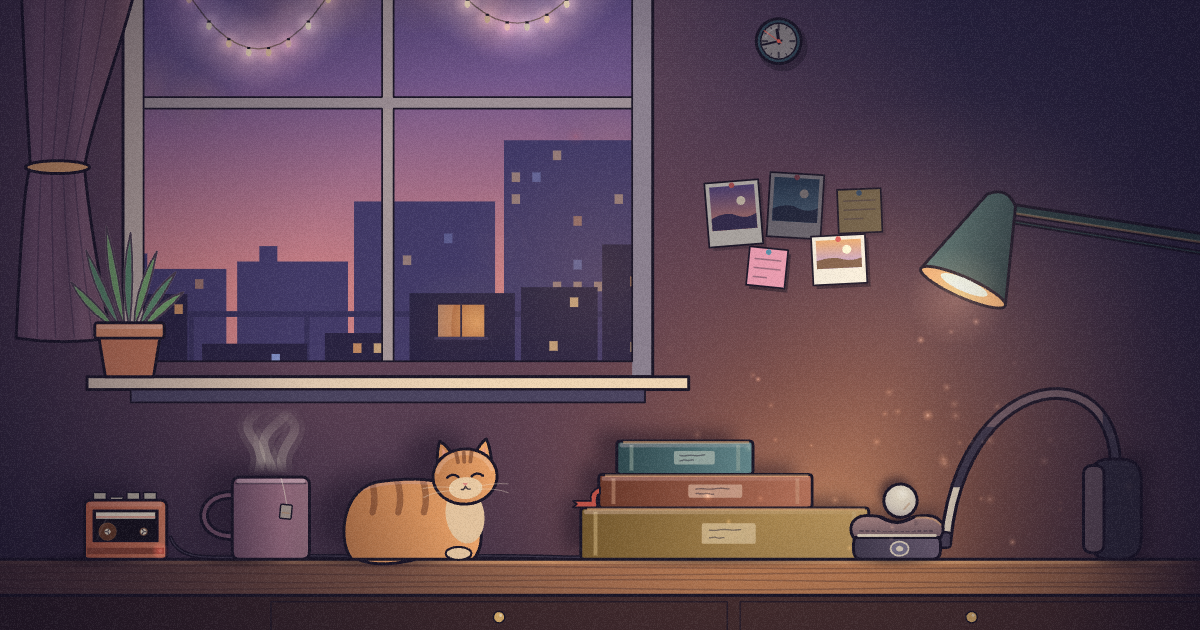
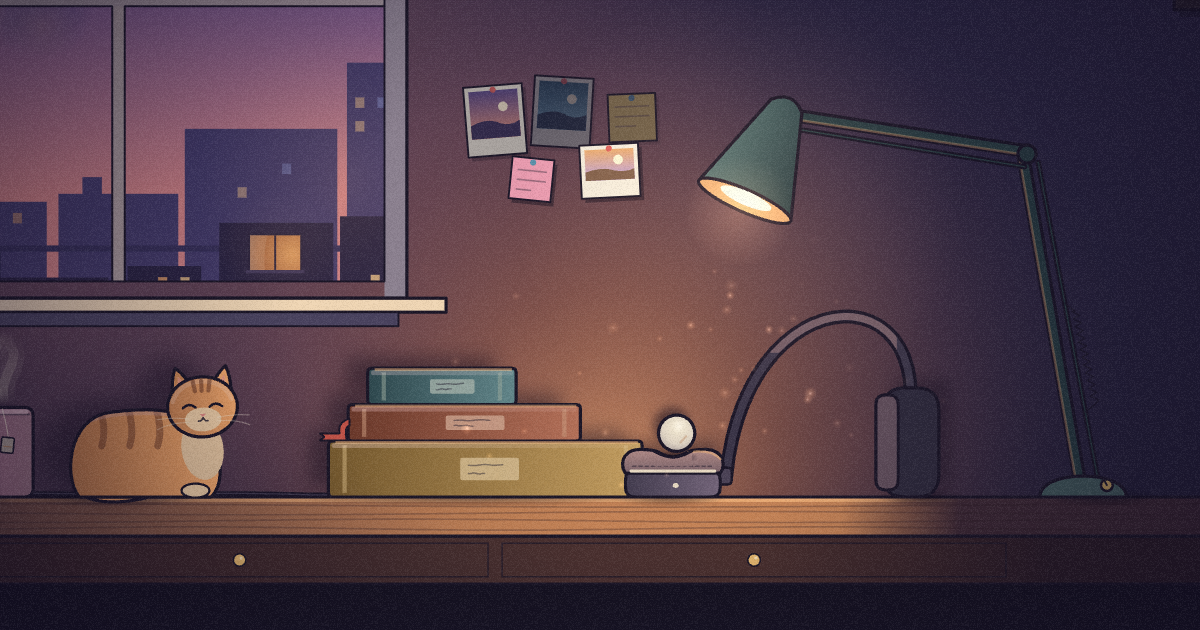
Soft Lamp: stillness, and a fourth cold review's repeats
A fourth no-context review, after the camera rebalance. Taken, as each was
flagged by earlier reviewers too: each groove look now holds sixteen bars
(nineteen fewer camera moves); the moth's wall shadow is removed; the
headphone badge is a small dot and the band's slider strip is gone; the face
in the mist loses its drips; the moon stays behind the cloud while it rains;
the steam sways narrower so it no longer crosses into letter shapes; fewer
dust motes. Schedules re-land: the kitten stops nodding to wash or stretch,
the person's stretch follows the kitten's within thirty seconds, and the hand
keeps clear of the neighbour's moments.

diff --git a/apps/rube/src/shows/versions/soft-lamp/lamp/cat.ts b/apps/rube/src/shows/versions/soft-lamp/lamp/cat.ts
@@ -174,7 +174,7 @@ function ballGaze(t: number, lag: number): { x: number; y: number } {
 function vibing(tr: Track, phrase: number): number {
   // It plays to the camera: likelier to be lost in it through a phrase the camera spends looking at it.
   const mid = barTime(tr, tr.entry + phrase * 8 + 4)
-  return hash(tr.n, phrase, 97) < (catInViewAt(mid) ? 0.8 : 0.25) ? 1 : 0
+  return hash(tr.n, phrase, 97) < (catInViewAt(mid) ? 0.62 : 0.25) ? 1 : 0
 }
 export function vibeAt(t: number): number {
   const tr = trackAt(t)
@@ -220,10 +220,10 @@ export function yawnAt(t: number): number {
 /** How long a wash takes: the paw up to its chin, four licks, the paw over its ear, and down. */
 const WASH = 6
 /**
- * Its washes: four through the night, each in a phrase it spends watching rather than nodding along, while the ball
+ * Its washes: four through the night (if it was nodding along, it stops to wash), while the ball
  * sits and the camera is on it all the while, clear of its yawns and of the lob.
  */
-export const WASHES: number[] = [[1, 2], [3, 4], [5, 6], [7, 8]].map((tracks) => {
+export const WASHES: number[] = [[1, 2], [3, 4, 2, 6], [5, 6], [7, 8]].map((tracks) => {
   for (const n of tracks) {
     const at = washIn(n)
     if (at > 0) return at
@@ -241,8 +241,9 @@ function washIn(n: number): number {
     if (!catInViewAt(at) || !catInViewAt(at + WASH)) continue
     if (YAWNS.some((y) => Math.abs(y - at) < WASH + 6)) continue
     if (REACHES.some((r) => at > r.at - WASH - 4 && at < r.at + r.dur + 4)) continue
+    // (If it was nodding along, it stops to wash: `cat` takes the wash over the nod.)
     let still = true
-    for (let s = at - 1; s <= at + WASH + 1; s += 0.5) if (vibeAt(s) > 0.02 || sweepAt(s).a > 0.02) still = false
+    for (let s = at - 1; s <= at + WASH + 1; s += 0.5) if (sweepAt(s).a > 0.02) still = false
     if (still) return at
   }
   return -100
@@ -271,13 +272,13 @@ export function washAt(t: number): { k: number; paw: number; lick: number } {
 /** How long a stretch takes: up onto its feet, the front stretched out long with a yawn, and back down. */
 const STRETCH = 6.8
 /** Everything a stretch reaches to: the cat's box, and its front paws out along the desk toward the books. */
-const STRETCH_BOX: [number, number, number, number] = [CAT.x0 - 0.3, -1.25, CAT.chest + 0.6, 0.05]
+const STRETCH_BOX: [number, number, number, number] = [CAT.x0 - 0.08, -1.25, CAT.chest + 0.6, 0.05]
 /**
  * Its stretches: twice through the night, as a cat does now and then after lying still a long while, each in a phrase
  * it spends watching (never nodding along), while the camera holds the whole of it, the paws stretched out included;
  * clear of its yawns and washes, the hand, the lob, a car's lights and the sky's moments.
  */
-export const STRETCHES: number[] = [[3, 4, 5, 2, 6], [8, 9, 10]].map((tracks) => {
+export const STRETCHES: number[] = [[3, 4, 5, 2, 6, 1], [9, 10, 8]].map((tracks) => {
   for (const n of tracks) {
     const at = stretchIn(n)
     if (at > 0) return at
@@ -308,8 +309,9 @@ function stretchIn(n: number): number {
     if (sky.some((m) => m > at - 12 && m < at + STRETCH + 10)) continue
     if (machineBusy(at, at + STRETCH)) continue
     if (!held(at - 1, at + STRETCH + 1)) continue
+    // (Nodding along, it stops to stretch: `cat` takes the stretch over the nod.)
     let still = true
-    for (let s = at - 1; s <= at + STRETCH + 1; s += 0.5) if (vibeAt(s) > 0.02 || sweepAt(s).a > 0.02) still = false
+    for (let s = at - 1; s <= at + STRETCH + 1; s += 0.5) if (sweepAt(s).a > 0.02) still = false
     if (still) return at
   }
   return -100
@@ -404,7 +406,7 @@ function catAt(ctx: Ctx, lw: number, t: number, c: ReturnType<typeof climbAt>): 
   // A shooting star, or lightning, brings it out of the music to look, and it goes back in after.
   // A scratch under the chin: it shuts its eyes and leans into the hand.
   const pet = petAt(t) * (1 - sleepAt(t))
-  const vibe = vibeAt(t) * (1 - shootAt(t - 0.3).a) * (1 - flashAt(t).look) * (1 - handAt(t).a) * (1 - mothKeen(t))
+  const vibe = vibeAt(t) * (1 - washAt(t).k) * (1 - smooth(stretchAt(t).up, 0, 0.3)) * (1 - shootAt(t - 0.3).a) * (1 - flashAt(t).look) * (1 - handAt(t).a) * (1 - mothKeen(t))
   // Stretching: up on its feet, the body lifted and tipped forward (chest down, rear up) about its rear, and longer;
   // the head down and forward with it, the eyes shut in a yawn.
   const s0 = stretchAt(t)
@@ -430,9 +432,9 @@ function catAt(ctx: Ctx, lw: number, t: number, c: ReturnType<typeof climbAt>): 
   const mix = (a: { x: number; y: number }, b: { x: number; y: number }) => ({ x: a.x + (b.x - a.x) * st.up, y: a.y + (b.y - a.y) * st.up })
   const curl = Math.sin(t * 2.4) * 0.04
   const t0 = mix({ x: x0 + 0.08, y: -0.08 }, T(x0 + 0.02, -0.22))
-  const t1 = mix({ x: x0 + 0.2, y: 0.02 }, T(x0 - 0.22, -0.4))
-  const t2 = mix({ x: chest - 0.55, y: 0.0 }, { x: x0 - 0.3, y: -0.82 - L })
-  const t3 = mix(tip, { x: x0 - 0.08 + curl, y: -1.02 - L })
+  const t1 = mix({ x: x0 + 0.2, y: 0.02 }, T(x0 - 0.1, -0.4))
+  const t2 = mix({ x: chest - 0.55, y: 0.0 }, { x: x0 - 0.12, y: -0.85 - L })
+  const t3 = mix(tip, { x: x0 + 0.02 + curl, y: -1.02 - L })
   ctx.beginPath()
   ctx.moveTo(t0.x, t0.y)
   ctx.bezierCurveTo(t1.x, t1.y, t2.x, t2.y, t3.x, t3.y)

diff --git a/apps/rube/src/shows/versions/soft-lamp/lamp/hands.ts b/apps/rube/src/shows/versions/soft-lamp/lamp/hands.ts
@@ -42,7 +42,8 @@ export const KNOB = { x: LAMP.base.x + 0.17, y: -0.085, r: 0.042 }
 /** What the camera must hold the whole time for each reach: the thing reached for, and the hand on it. */
 const BOX: Record<Kind, [number, number, number, number]> = {
   on: [LAMP.base.x - 0.4, -0.45, LAMP.base.x + 0.7, 0.2],
-  sip: [MUG.x - 0.75, -MUG.h - 0.1, MUG.x + 0.45, 0.25],
+  // (The sip's hand comes up from the frame's foot, so the desk's front edge may be the frame's foot.)
+  sip: [MUG.x - 0.75, -MUG.h - 0.1, MUG.x + 0.45, 0.1],
   away: [MUG.x - 0.75, -MUG.h - 0.1, MUG.x + 0.45, 0.25],
   back: [MUG.x - 0.75, -MUG.h - 0.1, MUG.x + 0.45, 0.25],
   cup: [MUG.x - 0.75, -MUG.h - 0.1, MUG.x + 0.45, 0.25],
@@ -72,7 +73,11 @@ export const REACHES: Reach[] = (() => {
   const out: Reach[] = []
   const busy = (t: number, d: number, kind?: Kind) =>
     // (Hands round the mug, at the desk's dark end, may share the night with someone across the street.)
-    [...MOMENTS.shooting, ...(kind === 'cup' ? [] : MOMENTS.crossings.map(([c]) => c))].some((m) => m > t - 8 && m < t + d + 6) ||
+    [...MOMENTS.shooting].some((m) => m > t - 8 && m < t + d + 6) ||
+    (kind !== 'cup' &&
+      [...MOMENTS.crossings.map(([c, , stop]) => [c, c + 3.6 + stop]), ...MOMENTS.cat.flatMap(([a, b]) => [[a, a + 2.4], [b - 2.4, b]])].some(
+        ([a, b]) => a < t + d + 12 && b > t - 12,
+      )) ||
     // After a flash, a hand may come for the warm mug: what anyone does as the storm comes closer.
     MOMENTS.lightning.some((m) => m > t - 3.5 && m < t + d + 6) ||
     out.some((r) => Math.abs(r.at - t) < 90) ||
@@ -93,7 +98,7 @@ export const REACHES: Reach[] = (() => {
   // The lamp, turned on as the first chord sounds (`lampAt`): the hand is on its way in as the show opens.
   out.push({ kind: 'on', at: 0.1, dur: DUR.on })
   // A sip while the tea is hot: in the second track.
-  find('sip', 160, 420)
+  find('sip', 160, 560)
   // The kitten, once in the rain.
   find('pet', 560, 900)
   // A face drawn in the mist on the glass, in the heaviest of the rain: it stays, and goes as the glass dries.
@@ -323,7 +328,7 @@ const DOODLE: { x: number; y: number }[][] = (() => {
     [at(0.045, -0.195), at(0.15, -0.35), at(0.17, -0.1)],
     [at(-0.075, -0.045), at(-0.073, 0.0)],
     [at(0.075, -0.045), at(0.073, 0.0)],
-    [at(-0.06, 0.07), at(-0.03, 0.1), at(0, 0.07), at(0.03, 0.1), at(0.06, 0.07)],
+    [at(-0.045, 0.075), at(-0.022, 0.095), at(0, 0.08), at(0.022, 0.095), at(0.045, 0.075)],
   ]
 })()
 /** How long each stroke is, and all of them, cells. */
@@ -370,8 +375,7 @@ function drawTip(s: number): { x: number; y: number } {
 }
 
 /**
- * The face on the glass: the mist cleared where the finger went, so the night shows through a little clearer, and a
- * few drips run down from its lowest points a while after. It stays while the glass is wet, rain running over it, and
+ * The face on the glass: the mist cleared where the finger went, so the night shows through a little clearer. It stays while the glass is wet, rain running over it, and
  * goes as the glass dries. Drawn on the glass, after the night and before the window's frame.
  */
 export function doodle(ctx: Ctx, t: number): void {
@@ -417,23 +421,6 @@ export function doodle(ctx: Ctx, t: number): void {
     ctx.strokeStyle = rgba('#14122A', 0.36 * vis)
     ctx.lineWidth = 0.04
     ctx.stroke()
-  }
-  // Drips from its lowest points, a while after it is drawn, each running down a little way and stopping.
-  const since = t - (r.at + DRAW_FROM + DRAW_FOR)
-  for (const [k, p] of [[0, { x: FACE.x - 0.05, y: FACE.y + FACE.r * 0.92 }], [1, { x: FACE.x + 0.1, y: FACE.y + FACE.r * 0.7 }], [2, { x: FACE.x - 0.13, y: FACE.y - 0.08 }]] as const) {
-    const d0 = 1.5 + k * 3.5
-    const run = smooth(since, d0, d0 + 6) * (0.12 + 0.12 * hash(k, 231))
-    if (run <= 0.002) continue
-    ctx.beginPath()
-    ctx.moveTo(p.x, p.y)
-    ctx.lineTo(p.x + 0.004, p.y + run)
-    ctx.strokeStyle = rgba('#16142C', 0.32 * vis)
-    ctx.lineWidth = 0.018
-    ctx.stroke()
-    ctx.beginPath()
-    ctx.arc(p.x + 0.004, p.y + run, 0.014, 0, Math.PI * 2)
-    ctx.fillStyle = rgba('#C9C6EA', 0.4 * vis)
-    ctx.fill()
   }
   ctx.restore()
 }

diff --git a/apps/rube/src/shows/versions/soft-lamp/lamp/moth.ts b/apps/rube/src/shows/versions/soft-lamp/lamp/moth.ts
@@ -7,8 +7,7 @@ import { INK, MOUTH, hash, lampAt, lampColor, lit, rainAt } from './world'
 /**
  * A moth, come in once the rain has stopped, to the lamp: the one small thing alive in the room through the clear
  * last part of the night. It circles the light in loose, uneven loops, close round the bulb and out again, and now and
- * then settles on the outside of the shade a while, its wings folded. Being so near the bulb, the lamp throws its
- * shadow big and soft across the wall behind, fluttering. The kitten watches it when it flies. And when the lamp is
+ * then settles on the outside of the shade a while, its wings folded. The kitten watches it when it flies. And when the lamp is
  * turned down at the end, it leaves the light and goes to the moonlit window, and is there on the glass as the show
  * ends.
  *
@@ -167,50 +166,4 @@ export function moth(ctx: Ctx, lw: number, t: number): void {
     ctx.fillStyle = g
     ctx.fillRect(m.x - SPAN, m.y - SPAN, SPAN * 2, SPAN * 2)
   }
-}
-
-/**
- * Its shadow on the wall: the lamp, so close, throws it several times its size, soft, along the line from the bulb
- * through the moth, so it sweeps the wall as the moth loops and flutters as its wings do. Only while it is in the light
- * and the lamp is up. Drawn on the wall, behind everything on the desk.
- */
-export function mothShadow(ctx: Ctx, t: number): void {
-  const m = mothAt(t)
-  const lamp = lampAt(t)
-  if (m.a <= 0.01 || lamp < 0.3 || m.glass > 0.5) return
-  const dx = m.x - MOUTH.x
-  const dy = m.y - MOUTH.y
-  const d = Math.hypot(dx, dy)
-  // Only what the bulb lights: in front of the shade's mouth, not behind it.
-  const ahead = (dx * U.x + dy * U.y) / (d || 1)
-  const k = 2.4
-  const a = 0.38 * m.a * lamp * smooth(ahead, -0.2, 0.3) * Math.max(0.35, 1 - d / 1.4) * (1 - 0.6 * restAt(t))
-  if (a < 0.01) return
-  const sx = MOUTH.x + dx * k
-  const sy = MOUTH.y + dy * k
-  const s = SPAN * k
-  const beat = Math.abs(Math.sin(t * 41 + Math.sin(t * 7)))
-  // A moth's shape, wings out, beating (they fold toward the body and open again), twice: a soft wide copy and a
-  // firmer one inside it, so it reads as a shadow thrown from close to a bulb, not as a smudge.
-  const shape = (g: number) => {
-    const open = 0.35 + 0.65 * beat
-    ctx.beginPath()
-    for (const side of [-1, 1]) {
-      ctx.moveTo(sx, sy - s * 0.12 * g)
-      ctx.quadraticCurveTo(sx + side * s * 0.55 * open * g, sy - s * 0.35 * g, sx + side * s * 0.5 * open * g, sy + s * 0.05 * g)
-      ctx.quadraticCurveTo(sx + side * s * 0.3 * open * g, sy + s * 0.3 * g, sx, sy + s * 0.12 * g)
-    }
-    ctx.ellipse(sx, sy, s * 0.06 * g, s * 0.22 * g, 0, 0, Math.PI * 2)
-  }
-  ctx.save()
-  // Soft: three spreads of it, faint to firmer, so its edge is a blur, not a cut-out.
-  ctx.fillStyle = `rgba(14, 9, 26, ${(a * 0.18).toFixed(3)})`
-  shape(1.5)
-  ctx.fillStyle = `rgba(14, 9, 26, ${(a * 0.22).toFixed(3)})`
-  shape(1.25)
-  ctx.fill()
-  ctx.fillStyle = `rgba(14, 9, 26, ${(a * 0.28).toFixed(3)})`
-  shape(1)
-  ctx.fill()
-  ctx.restore()
 }

diff --git a/apps/rube/src/shows/versions/soft-lamp/lamp/scene.ts b/apps/rube/src/shows/versions/soft-lamp/lamp/scene.ts
@@ -10,7 +10,7 @@ import { ballShadow, contacts, wallShadows } from './shade'
 import { camera } from './camera'
 import { titlesAt } from './titles'
 import { REFILL, doodle, hands, knob, liftAt } from './hands'
-import { moth, mothShadow } from './moth'
+import { moth } from './moth'
 import { rimAt, rimLine } from './rim'
 import { reflection } from './reflection'
 import { cable, walkman } from './walkman'
@@ -404,7 +404,7 @@ function steam(ctx: Ctx, t: number): void {
     for (let i = 0; i <= n; i++) {
       const u = i / n
       const y = top - u * rise
-      const x = x0 + Math.sin(u * 6 - phase * 2 + w) * (0.03 + 0.12 * u * u) + 0.06 * u * Math.sin(phase * 0.3 + w)
+      const x = x0 + Math.sin(u * 6 - phase * 2 + w) * (0.03 + 0.06 * u * u) + 0.06 * u * Math.sin(phase * 0.3 + w)
       if (i === 0) ctx.moveTo(x, y)
       else ctx.lineTo(x, y)
     }
@@ -573,16 +573,6 @@ function headphones(ctx: Ctx, lw: number, t: number): void {
   ctx.strokeStyle = lit(PAD, PAD_LIT, lightAt(a.x + 0.6, BAND_TOP) * lamp * 0.8)
   ctx.stroke()
   ctx.restore()
-  // The band's adjusting slider where it comes out of the yoke: a bright strip of it.
-  ctx.save()
-  ctx.beginPath()
-  ctx.rect(a.x - 0.2, a.y - 0.42, 0.42, 0.42)
-  ctx.clip()
-  band()
-  ctx.lineWidth = 0.05
-  ctx.strokeStyle = lit('#6E6A7E', '#E8D9C2', lightAt(a.x, a.y - 0.3) * lamp * 0.9 + 0.1)
-  ctx.stroke()
-  ctx.restore()
   // The far cup, on its edge: the shell away from us, the cushion toward the near cup.
   const fx = FAR_CUP.x
   const fw = FAR_CUP.halfW
@@ -618,7 +608,7 @@ function headphones(ctx: Ctx, lw: number, t: number): void {
   ctx.fillStyle = pg
   ctx.fill()
   stroke(ctx, lw)
-  // What says headphones: the shell's bright rim where the cushion sits in it, a round badge on its side, and the
+  // What says headphones: the shell's bright rim where the cushion sits in it, a small badge on its side, and the
   // cushion's stitched seam.
   const metal = (k: number) => lit('#6E6A7E', '#E8D9C2', Math.min(1, l * 0.9 + k))
   const rimY = CUP.top + 0.155
@@ -631,14 +621,7 @@ function headphones(ctx: Ctx, lw: number, t: number): void {
   const bx = CUP.x + 0.02
   const by = (rimY + 0) / 2 + 0.01
   ctx.beginPath()
-  ctx.ellipse(bx, by, 0.07, 0.055, 0, 0, Math.PI * 2)
-  ctx.fillStyle = lit('#3A3448', '#8D86A0', l * 0.8)
-  ctx.fill()
-  ctx.lineWidth = lw * 0.6
-  ctx.strokeStyle = metal(0.15)
-  ctx.stroke()
-  ctx.beginPath()
-  ctx.ellipse(bx, by, 0.028, 0.022, 0, 0, Math.PI * 2)
+  ctx.ellipse(bx, by, 0.022, 0.018, 0, 0, Math.PI * 2)
   ctx.fillStyle = metal(0.2)
   ctx.fill()
   ctx.save()
@@ -880,7 +863,6 @@ export const room = scenery<null>('room', (p, _s, c) => inCells(p, c, (ctx, lw) 
   pot(ctx, lw, c.t)
   desk(ctx, lw, c.t)
   wallShadows(ctx, c.t)
-  mothShadow(ctx, c.t)
 }))
 
 export const things = scenery<null>(

diff --git a/apps/rube/src/shows/versions/soft-lamp/lamp/reflection.ts b/apps/rube/src/shows/versions/soft-lamp/lamp/reflection.ts
@@ -47,19 +47,21 @@ const centreAt = (x: number): number => AT.x + FOLLOW * (x - HOME_X)
 const REACH_UP = 5.5
 
 /**
- * Their stretch: once, late, just after the kitten's (a stretch is catching), when the window shows them all the
- * while. Worked out once, at load.
+ * Their stretch: once, late, a moment after the kitten's (a stretch is catching), when the window shows them all
+ * the while. Worked out once, at load.
  */
 export const HUMAN_STRETCH: number = (() => {
   for (const s of [...STRETCHES].reverse()) {
     if (s < 0) continue
-    const at = s + 7.5
-    let ok = true
-    for (let t = at - 0.5; t <= at + REACH_UP + 0.5 && ok; t += 0.5) {
-      const cx = centreAt(camera(t).x)
-      if (cx - 0.5 < GLASS.x0 || cx + 0.5 > GLASS.x1 || reflectionSeen(t) < 0.4) ok = false
+    // A moment after the kitten's, the first the window holds them all the while.
+    for (let at = s + 7.5; at < s + 30; at += 0.5) {
+      let ok = true
+      for (let t = at - 0.5; t <= at + REACH_UP + 0.5 && ok; t += 0.5) {
+        const cx = centreAt(camera(t).x)
+        if (cx - 0.5 < GLASS.x0 || cx + 0.5 > GLASS.x1 || reflectionSeen(t) < 0.4) ok = false
+      }
+      if (ok) return at
     }
-    if (ok) return at
   }
   return -100
 })()

diff --git a/apps/rube/src/shows/versions/soft-lamp/lamp/decor.ts b/apps/rube/src/shows/versions/soft-lamp/lamp/decor.ts
@@ -547,11 +547,11 @@ export function motes(ctx: Ctx, t: number): void {
   ctx.globalCompositeOperation = 'lighter'
   const kicks = recent(NODS_AT, t)
   const cracks = recent(SNARES, t)
-  for (let i = 0; i < 54; i++) {
+  for (let i = 0; i < 42; i++) {
     // Each drifts on its own slow loop round a home in the lamp's reach, and sinks a little and rises again; a dozen
     // hang low round the near cup, in the air it moves, and eight by the far cup, in the air it moves.
-    const low = i >= 34 && i < 46
-    const far = i >= 46
+    const low = i >= 22 && i < 34
+    const far = i >= 34
     const hx = far ? FAR_CUP.x - 0.95 + hash(i, 161) * 0.8 : low ? CUP.x - 0.9 + hash(i, 161) * 1.9 : MOUTH.x - 2.4 + hash(i, 161) * 3.6
     const hy = far ? -FAR_CUP.h * 0.6 - hash(i, 162) * 0.8 : low ? CUP.top - 0.5 - hash(i, 162) * 0.8 : MOUTH.y + 0.1 + hash(i, 162) * 2.0
     const sp = 0.05 + hash(i, 163) * 0.08

diff --git a/apps/rube/checks/soft-lamp.ts b/apps/rube/checks/soft-lamp.ts
@@ -228,7 +228,7 @@ export function checkSoftLamp(perf: Performance, version: Version, check: Check)
     [10, 1100, 1600, DURATION].map((t) => reflectionSeen(t).toFixed(2)).join(' '))
 
   check('soft lamp: once, late, just after the kitten stretches, the one in the window stretches too',
-    HUMAN_STRETCH > 1300 && STRETCHES.some((t) => HUMAN_STRETCH - t > 6.8 && HUMAN_STRETCH - t < 10) && reflectionSeen(HUMAN_STRETCH) > 0.4, `${HUMAN_STRETCH}`)
+    HUMAN_STRETCH > 1300 && STRETCHES.some((t) => HUMAN_STRETCH - t > 6.8 && HUMAN_STRETCH - t < 30) && reflectionSeen(HUMAN_STRETCH) > 0.4, `${HUMAN_STRETCH}`)
 
   // At the end it climbs to the sill (the ball's stair, the other way) and sleeps there, under the window, clear of the
   // plant pot, once the ball is in the cup for good and the camera is on the whole room.

diff --git a/apps/rube/src/shows/versions/soft-lamp/lamp/sky.ts b/apps/rube/src/shows/versions/soft-lamp/lamp/sky.ts
@@ -427,7 +427,8 @@ function moon(ctx: Ctx, t: number, cloud: number, lens: Lens): void {
   const at = onWall(lens, DEPTH.sky, GLASS.x1 - 0.55 - u * 0.75, GLASS.y1 - 1.6 - u * 2.0)
   const x = at.x
   const y = Math.max(GLASS.y0 + 0.24, at.y)
-  const a = up * (1 - 0.82 * cloud)
+  // Not through the rain: behind the cloud until the rain has gone.
+  const a = up * (1 - 0.82 * cloud) * (1 - smooth(rainAt(t), 0.04, 0.25))
   const halo = ctx.createRadialGradient(x, y, 0.15, x, y, 1.2)
   halo.addColorStop(0, rgba('#E9E3FF', 0.32 * a))
   halo.addColorStop(0.4, rgba('#B4B3E8', 0.1 * a))

diff --git a/apps/rube/src/shows/versions/soft-lamp/lamp/camera.ts b/apps/rube/src/shows/versions/soft-lamp/lamp/camera.ts
@@ -98,7 +98,8 @@ function plan(): void {
     const endGroove = lap.lob ?? barTime(tr, tr.exit)
     const breaks = tr.runs.slice(1).map((r, i) => ({ from: barTime(tr, tr.runs[i].to), to: barTime(tr, r.from) }))
     let phrase = 0
-    for (let i = tr.entry + 2 + 8; ; i += 8) {
+    // A look holds two phrases (sixteen bars): fewer moves, the room still for longer.
+    for (let i = tr.entry + 2 + 16; ; i += 16) {
       const start = barTime(tr, i)
       if (start > endGroove - 2 * bar) break
       // Not in a break, nor just before or after one: the break has its own frames.

diff --git a/apps/rube/src/shows/versions/soft-lamp/SOFTLAMP.md b/apps/rube/src/shows/versions/soft-lamp/SOFTLAMP.md
@@ -1081,7 +1081,29 @@ the desk (the stage's own policy, centring the composed frame; the room is built
      21:25, the kitten's stretches at 6:03 and 21:38 (the first now looks from the second track on, the check takes
      "late" as after 20:00). A yawn that landed on a flash of lightning keeps clear of the flashes now.
 
-**Subtracted:** twenty-three moments in the director's cut (sixteen thinking pauses, two trains, two crossings, five
+### The sixty-fifth pass: a fourth cold review, and stillness
+
+A fourth reviewer with no context, on forty new frames after the camera's rebalance. What it found that three before it
+had found too is taken, firmly:
+
+171. **The camera was still too restless** (the fourth to say so): a new look every phrase. A look now holds two
+     phrases, sixteen bars, about forty seconds: nineteen fewer moves in the half hour. Everything played to the camera
+     was worked out again and lands (some of it now at new times: the sip 4:32, the scratch 10:44, hands round the mug
+     14:12, the face in the mist 19:13, the tea away 22:06 and back 24:35, the stretches 11:01 and 26:24, the one in the
+     window's 26:51). To make room, the kitten now stops nodding along to wash or to stretch (it had to wait for a phrase
+     it spent watching), and their stretch follows the kitten's within half a minute, not within ten seconds.
+172. **The moth's shadow, flagged a fourth time**, is gone. The moth stays.
+173. **The headphones' "eye" and "second lamp neck"**: the badge on the cup is a small dot, and the band's bright slider
+     strip, which made the band read as a gooseneck beside the real lamp, is gone.
+174. **The face in the mist read as a toothy grin** with its drips: no drips now, a smaller mouth.
+175. **The moon shone through the rain**: it is behind the cloud until the rain has gone.
+176. **The steam crossed itself into letters**: its wisps sway half as wide as they rise, nearly parallel.
+177. **Too much dust**: a fifth fewer motes in the lamp's light, the ones by the cups as they were.
+
+Not taken: the cat's half-lidded eyes (a taste), the mug away for its refill.
+
+**Subtracted:** the moth's shadow (four reviewers read it as a stain); the face's drips; the band's slider strip;
+twenty-three moments in the director's cut (sixteen thinking pauses, two trains, two crossings, five
 headlights); the near lights, out-of-focus bulbs across the frame's top corners (flat discs on the wall); the second chin scratch (to make room for the face in the mist); the tea bag dunked by its tag (the hand's first idea); the light cone; the ball's ink mark; the cup of pencils; the pages turning on each track (considered and not built: the page is the notebook's
 second job); a cable from the headphones (until the Walkman gave it somewhere to go); a drinking bird that would have lifted the ball (a character, and a gag);
 the headphone "U" the ball first rocked in; the beads' dark cover; a quarter of the drops on the glass.
